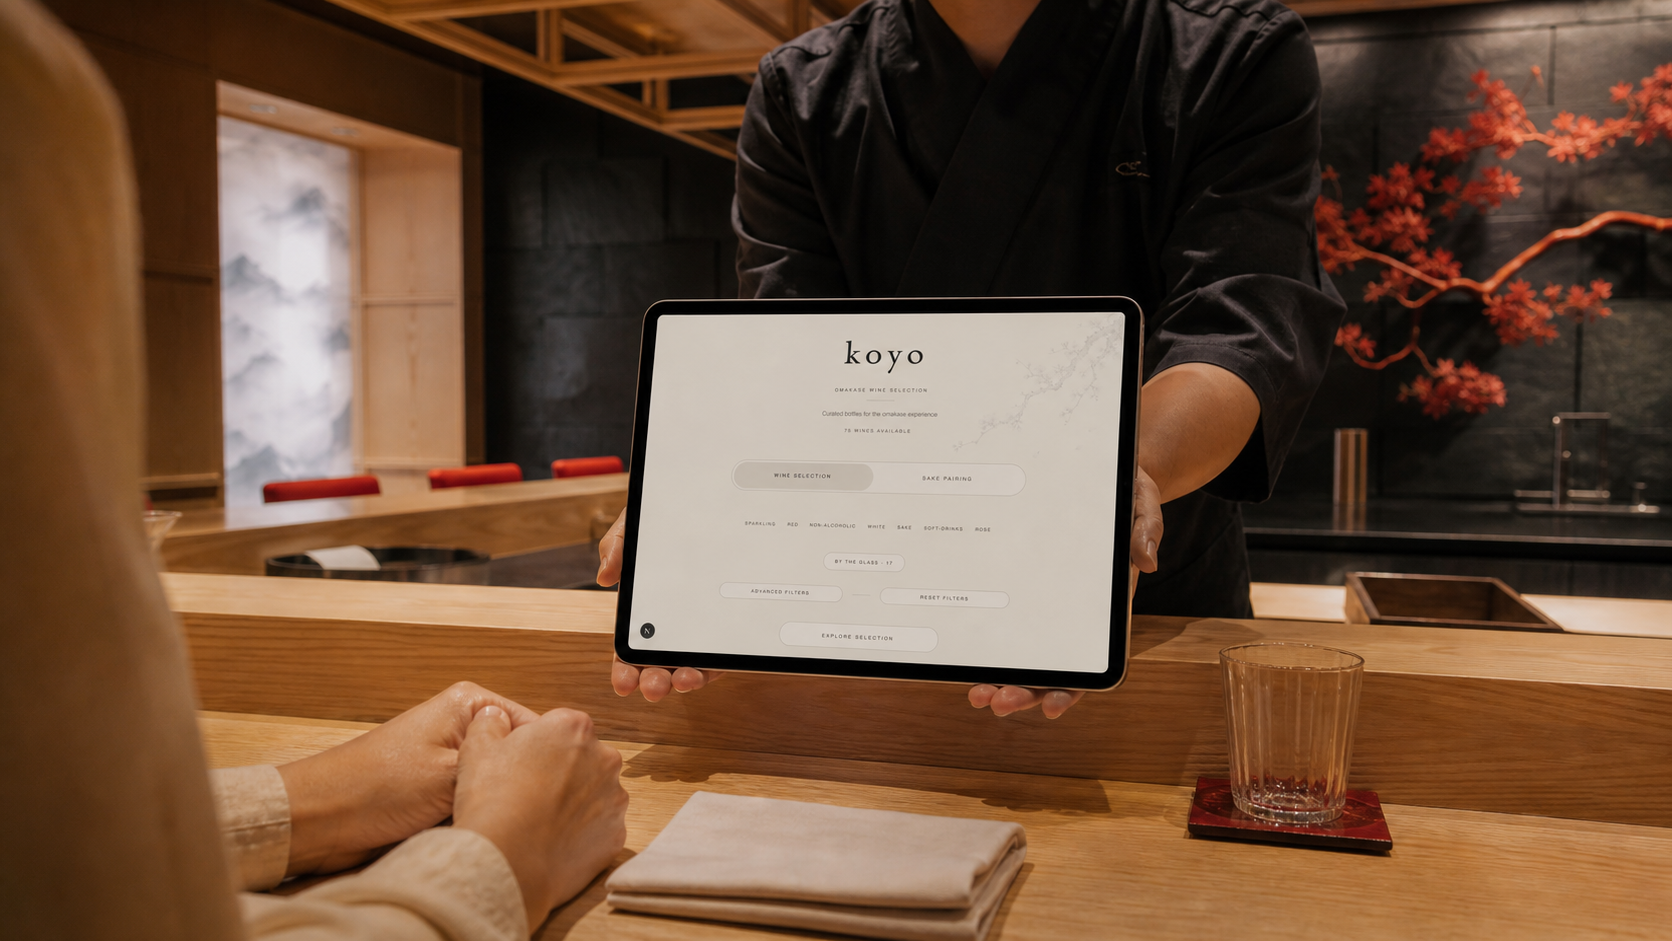
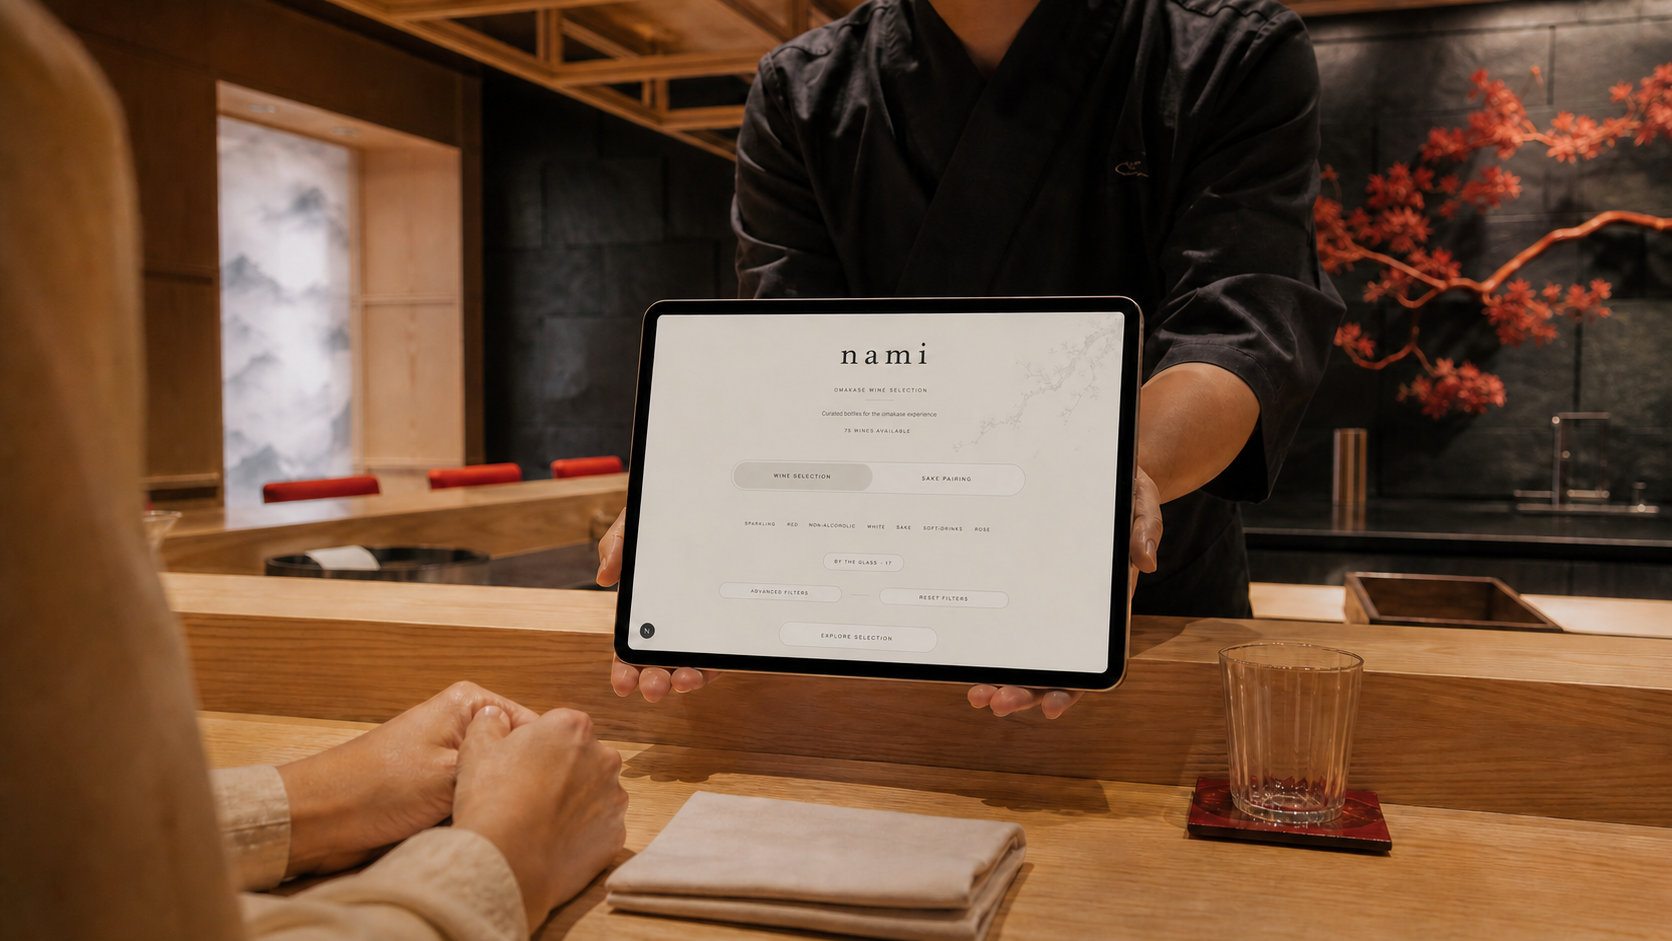
Anonymize public product showcase

diff --git a/src/app/page.js b/src/app/page.js
@@ -12,9 +12,8 @@ const capabilities = [
 ];
 
 const experiences = [
-  ["/vaxeron/koyo-ipad-service.png", "Koyo", "A seasonal wine-and-sake journey presented with the intimacy, care and quiet theatre of omotenashi.", "Omakase wine experience"],
-  ["/vaxeron/shang-shi-ipad-service.png", "Shang Shi", "A tableside sommelier consultation connecting the live cellar with contemporary Cantonese dining.", "Sommelier-led wine programme"],
-  ["/vaxeron/burman-spa-ipad-consultation.png", "The Burman Spa", "A private wellness consultation guiding each guest towards treatments, self-care and moments of restoration.", "Personalised wellness journey"],
+  ["/vaxeron/koyo-ipad-service.png?v=5", "Nami", "A seasonal wine-and-sake journey presented with intimacy, care and the quiet theatre of omotenashi.", "Illustrative omakase experience"],
+  ["/vaxeron/evening-service.png", "Solstice", "A refined service environment showing how live operational clarity supports a composed destination restaurant.", "Illustrative dining experience"],
 ];
 
 export default function HomePage() {
@@ -44,9 +43,9 @@ export default function HomePage() {
 
     <section className="vx2-workspace" id="platform">
       <div className="vx2-workspace-copy" data-reveal><p className="vx2-label">The working view</p><h2>Clarity,<br/>at a glance.</h2><p>Live operational health, venue inventory and guest publishing—designed around the way hospitality teams actually work.</p><a href="#capabilities">Explore the platform <span>→</span></a></div>
-      <div className="vx2-device-wrap" data-reveal>
-        <div className="vx2-laptop"><div className="vx2-screen"><span className="vx2-camera"/><img src="/platform/dashboard-overview.png?v=4" alt="VAXERON operational dashboard displayed on a laptop"/></div><div className="vx2-base"><i/></div></div>
-        <small>VAXERON operational overview · Live workspace</small>
+        <div className="vx2-device-wrap" data-reveal>
+        <div className="vx2-laptop"><div className="vx2-screen"><span className="vx2-camera"/><img src="/platform/dashboard-overview.png?v=5" alt="Fictional Aurelia Hospitality wine operations dashboard displayed on a laptop"/></div><div className="vx2-base"><i/></div></div>
+        <small>Illustrative workspace · Fictional company and demo data</small>
       </div>
     </section>
 
@@ -66,22 +65,22 @@ export default function HomePage() {
     </section>
 
     <section className="vx2-experiences" id="experiences">
-      <header data-reveal><p className="vx2-label">Partner implementations</p><h2>Designed around<br/><em>their world.</em></h2><span>VAXERON provides the operational foundation. Every guest-facing service is then shaped around the partner, their setting and the way they welcome guests.</span></header>
+      <header data-reveal><p className="vx2-label">Illustrative guest journeys</p><h2>Designed around<br/><em>their world.</em></h2><span>These fictional concepts demonstrate how VAXERON can shape each guest-facing service around a property, its setting and the way it welcomes guests.</span></header>
 
       <article className="vx2-burman-case" data-reveal>
-        <div className="vx2-burman-room"><img src="/vaxeron/burman-ipad-final.png" alt="The Burman VAXERON guest experience presented on an in-room iPad"/></div>
-        <div className="vx2-burman-caption"><p className="vx2-label">The Burman Hotel · In-room experience</p><h3>The stay, thoughtfully gathered in one place.</h3><p>Created for the hotel’s in-room iPads, the experience gives every guest an immediate path to Michelin-recognised dining, room service, the spa and the details of their stay.</p><small>Original VAXERON concept · Inspired by the live installation</small></div>
+        <div className="vx2-burman-room"><img src="/vaxeron/burman-ipad-final.png?v=5" alt="Fictional Aurelia House guest experience presented on an in-room tablet"/></div>
+        <div className="vx2-burman-caption"><p className="vx2-label">Aurelia House · Illustrative in-room experience</p><h3>The stay, thoughtfully gathered in one place.</h3><p>A fictional demonstration of how an in-room tablet can give every guest an immediate path to dining, room service, wellness and the details of their stay.</p><small>Illustrative VAXERON concept · Fictional brand and content</small></div>
       </article>
 
-      <div className="vx2-partner-intro" data-reveal><p className="vx2-label">Personalised services for our partners</p><span>Part of the wider Bombay hospitality world, each destination keeps a distinct voice, service ritual and digital expression.</span></div>
+      <div className="vx2-partner-intro" data-reveal><p className="vx2-label">One platform, distinct identities</p><span>Each fictional destination keeps its own voice, service ritual and digital expression while sharing the same operational foundation.</span></div>
       <div className="vx2-experience-grid">{experiences.map(([image,title,copy,service],index)=><figure key={title} className={`vx2-exp-${index+1}`} data-reveal><div className="vx2-partner-image"><img src={image} alt={`${title} guest experience powered by VAXERON`}/><small>{service}</small></div><figcaption><span>{title}</span><p>{copy}</p></figcaption></figure>)}</div>
     </section>
 
     <section className="vx2-proof" id="inside-platform">
       <header className="vx2-proof-header" data-reveal><p className="vx2-label">Inside the platform</p><h2>From one source of truth<br/><em>to every point of service.</em></h2><p>VAXERON turns fragmented operational data into a calm, shared workspace—then carries the right information into every venue and guest experience.</p></header>
       <div className="vx2-proof-stage" data-reveal>
-        <figure className="vx2-proof-window vx2-proof-main"><div className="vx2-window-bar"><i/><i/><i/><span>Live operational workspace</span></div><img src="/platform/stock-control.png?v=4" alt="VAXERON live stock control workspace"/></figure>
-        <figure className="vx2-proof-window vx2-proof-venue"><div className="vx2-window-bar"><i/><i/><i/><span>Venue intelligence</span></div><img src="/platform/venue-inventory.png?v=4" alt="VAXERON location-level venue inventory"/></figure>
+        <figure className="vx2-proof-window vx2-proof-main"><div className="vx2-window-bar"><i/><i/><i/><span>Illustrative operational workspace</span></div><img src="/platform/stock-control.png?v=5" alt="Fictional Aurelia Hospitality stock control workspace with synthetic data"/></figure>
+        <figure className="vx2-proof-window vx2-proof-venue"><div className="vx2-window-bar"><i/><i/><i/><span>Fictional venue portfolio</span></div><img src="/platform/venue-inventory.png?v=5" alt="Fictional venue portfolio using synthetic inventory data"/></figure>
         <aside className="vx2-proof-note"><p className="vx2-label">Operational record</p><h3>Every bottle.<br/>Every venue.<br/>Every movement.</h3><p>Live quantities, service formats and movement history stay connected to the teams and experiences that depend on them.</p><ul><li>Location-level availability</li><li>Transfers and adjustments</li><li>Stock-aware publishing</li></ul></aside>
       </div>
       <ol className="vx2-proof-flow" data-reveal>
@@ -90,7 +89,7 @@ export default function HomePage() {
         <li><span>03</span><div><b>Operate confidently</b><small>Inventory, movements and teams</small></div></li>
         <li><span>04</span><div><b>Publish beautifully</b><small>Venue and guest experiences</small></div></li>
       </ol>
-      <p className="vx2-proof-caption" data-reveal>Compucash is the first live connector. The integration architecture is designed to welcome additional POS, inventory, PMS and reservation providers.</p>
+      <p className="vx2-proof-caption" data-reveal>Illustrative workspace using fictional names and synthetic data. VAXERON&apos;s integration architecture is designed for POS, inventory, PMS and reservation providers.</p>
     </section>
 
     <section className="vx2-private">

diff --git a/src/styles/vaxeron-new.css b/src/styles/vaxeron-new.css
@@ -50,7 +50,7 @@ html{scroll-behavior:smooth}.vx2{--night:#171816;--paper:#f3f0e9;--ink:#20211e;-
 .vx2-burman-caption>small{display:inline-block;margin-top:22px;color:#858178;font-size:7px;text-transform:uppercase;letter-spacing:.13em;border-bottom:1px solid rgba(32,33,30,.22);padding-bottom:3px}
 .vx2-partner-intro{display:grid;grid-template-columns:.7fr 1fr;gap:8vw;align-items:start;margin:0 0 70px}
 .vx2-partner-intro>span{max-width:560px;color:var(--muted);font-size:14px;line-height:1.8}
-.vx2-experience-grid{grid-template-columns:1fr 1fr 1fr;column-gap:3vw;row-gap:0}
+.vx2-experience-grid{grid-template-columns:1fr 1fr;column-gap:4vw;row-gap:0}
 .vx2-experience-grid figure:nth-child(even){margin-top:70px}
 .vx2-partner-image{position:relative;overflow:hidden;background:#e6e2d9}
 .vx2-exp-1 .vx2-partner-image img,.vx2-exp-2 .vx2-partner-image img,.vx2-exp-3 .vx2-partner-image img{aspect-ratio:16/9;object-position:center}
